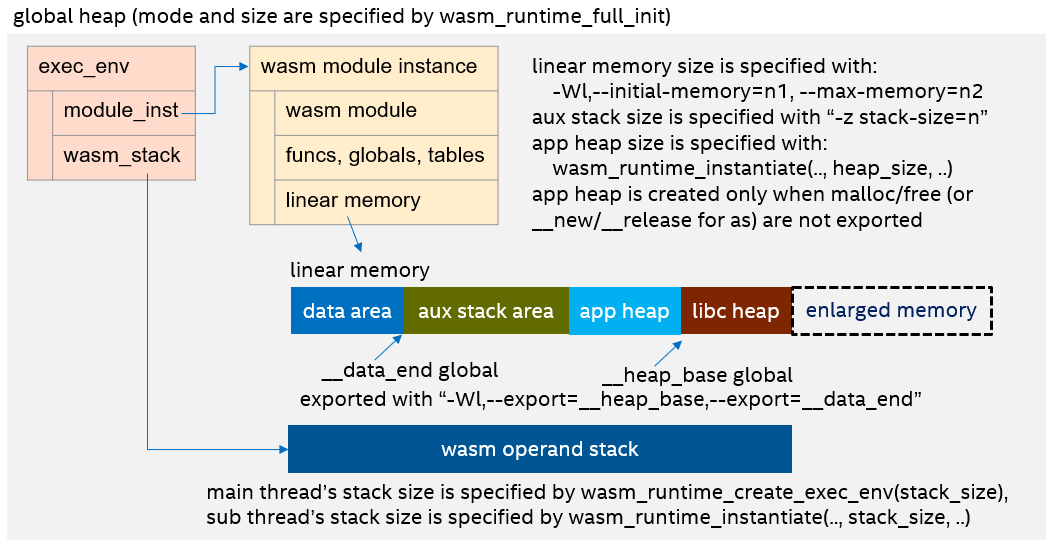
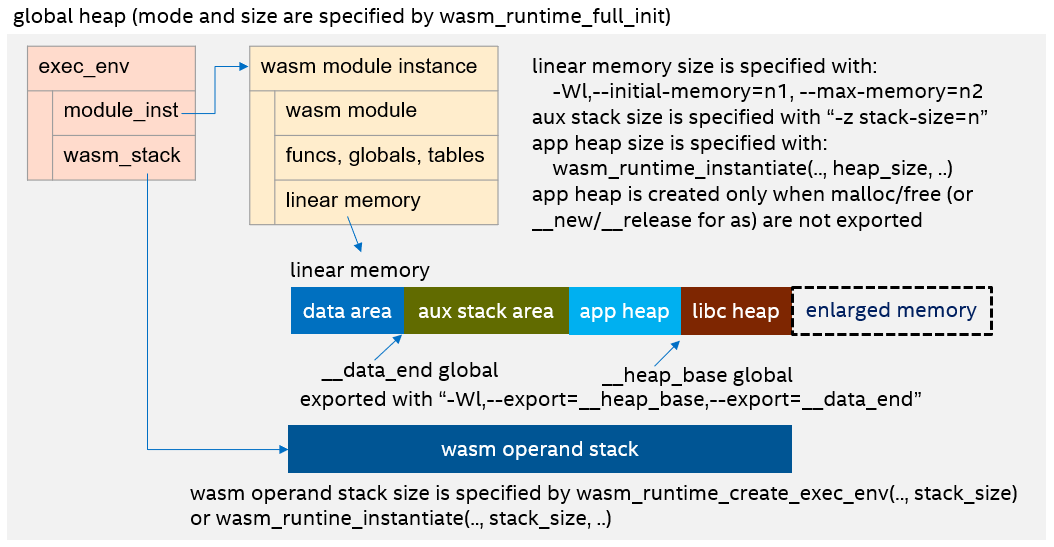
Update document and fix wasm_runtime_call_wasm_a issue (#1005)
Update document memory_tune.md: fix embed wamr link error,
fix description error of wasm operand stack size, update picture.

Fix wasm_runtime_call_wasm_a issue reported by #1003 and update
sample basic to call this API.

Changed region(s): [[0.1822, 0.8702, 0.9715, 0.9634]]

diff --git a/samples/basic/src/main.c b/samples/basic/src/main.c
@@ -123,28 +123,28 @@ main(int argc, char *argv_main[])
         goto fail;
     }
 
-    uint32 argv[4];
-    double arg_d = 0.000101;
-    argv[0] = 10;
-    // the second arg will occupy two array elements
-    memcpy(&argv[1], &arg_d, sizeof(arg_d));
-    *(float *)(argv + 3) = 300.002;
-
     if (!(func = wasm_runtime_lookup_function(module_inst, "generate_float",
                                               NULL))) {
         printf("The generate_float wasm function is not found.\n");
         goto fail;
     }
 
+    wasm_val_t results[1] = { { .kind = WASM_F32, .of.f32 = 0 } };
+    wasm_val_t arguments[3] = {
+        { .kind = WASM_I32, .of.i32 = 10 },
+        { .kind = WASM_F64, .of.f64 = 0.000101 },
+        { .kind = WASM_F32, .of.f32 = 300.002 },
+    };
+
     // pass 4 elements for function arguments
-    if (!wasm_runtime_call_wasm(exec_env, func, 4, argv)) {
+    if (!wasm_runtime_call_wasm_a(exec_env, func, 1, results, 3, arguments)) {
         printf("call wasm function generate_float failed. %s\n",
                wasm_runtime_get_exception(module_inst));
         goto fail;
     }
 
     float ret_val;
-    memcpy(&ret_val, argv, sizeof(float));
+    ret_val = results[0].of.f32;
     printf("Native finished calling wasm function generate_float(), returned a "
            "float value: %ff\n",
            ret_val);

diff --git a/core/iwasm/common/wasm_runtime_common.c b/core/iwasm/common/wasm_runtime_common.c
@@ -1629,7 +1629,7 @@ wasm_runtime_call_wasm_a(WASMExecEnv *exec_env,
     }
 
     parse_args_to_uint32_array(type, args, argv);
-    if (!(ret = wasm_runtime_call_wasm(exec_env, function, num_args, argv)))
+    if (!(ret = wasm_runtime_call_wasm(exec_env, function, argc, argv)))
         goto fail2;
 
     parse_uint32_array_to_results(type, argv, results);

diff --git a/doc/memory_tune.md b/doc/memory_tune.md
@@ -8,8 +8,8 @@ The memory model of WAMR can be basically described as below:
 <center><img src="./pics/wamr_memory_model.png" width="75%" height="75%"></img></center>
 
 Note:
-- **global heap**: the heap to allocate memory for runtime data structures, including wasm module, wasm module instance, exec env, wasm operand stack and so on. It is initialized by `wasm_runtime_init` or `wasm_runtime_full_init`. And for `wasm_runtime_full_init`, developer can specify the memory allocation mode with `RuntimeInitArgs *init_args`: allocate memory from a user defined byte buffer, from user defined allocation function, or from the platform's os_malloc function. Refer to [wasm_export.h](../core/iwasm/include/wasm_export.h#L98-L141) and [Embedding WAMR guideline](doc/embed_wamr.md#the-runtime-initialization) for more details. And developer can use `wasm_runtime_malloc/wasm_runtime_free` to allocate/free memory from/to the global heap.
-- **wasm operand stack**: the stack to store the operands required by wasm bytecodes as WebAssembly is based on a stack machine. If the exec_env is created by developer with `wasm_runtime_create_exec_env`, then its size is specified by `wasm_runtime_create_exec_env`, or if the exec_env is created by runtime, e.g. creating exec_env in a sub thread, the size is specified by `wasm_runtime_instantiate`.
+- **global heap**: the heap to allocate memory for runtime data structures, including wasm module, wasm module instance, exec env, wasm operand stack and so on. It is initialized by `wasm_runtime_init` or `wasm_runtime_full_init`. And for `wasm_runtime_full_init`, developer can specify the memory allocation mode with `RuntimeInitArgs *init_args`: allocate memory from a user defined byte buffer, from user defined allocation function, or from the platform's os_malloc function. Refer to [wasm_export.h](../core/iwasm/include/wasm_export.h#L98-L141) and [Embedding WAMR guideline](./embed_wamr.md#the-runtime-initialization) for more details. And developer can use `wasm_runtime_malloc/wasm_runtime_free` to allocate/free memory from/to the global heap.
+- **wasm operand stack**: the stack to store the operands required by wasm bytecodes as WebAssembly is based on a stack machine. If the exec_env is created by developer with `wasm_runtime_create_exec_env`, then its size is specified by `wasm_runtime_create_exec_env`, otherwise if the exec_env is created by runtime internally, e.g. by `wasm_application_execute_main` or `wasm_application_execute_func`, then the size is specified by `wasm_runtime_instantiate`.
 - **linear memory**: a contiguous, mutable array of raw bytes. It is created with an initial size but might be grown dynamically. For most compilers, e.g. wasi-sdk, emsdk, rustc or asc, normally it includes three parts, data area, auxiliary stack area and heap area. For wasi-sdk, the initial/max size can be specified with `-Wl,--initial-memory=n1,--max-memory=n2`, for emsdk, the initial/max size can be specified with `-s INITIAL_MEMORY=n1 -s MAXIMUM_MEMORY=n2 -s ALLOW_MEMORY_GROWTH=1` or `-s TOTAL_MEMORY=n`, and for asc, they can be specified with `--initialMemory` and `--maximumMemory` flags.
 - **aux stack**: the auxiliary stack resides in linear memory to store some temporary data when calling wasm functions, for example, calling a wasm function with complex struct arguments. For wasi-sdk, the size can be specified with `-z stack-size=n`, for emsdk, the size can be specified with `-s TOTAL_STACK=n`.
 - **app heap and libc heap**: the heap to allocate memory for wasm app, note that app heap is created only when the malloc/free functions (or __new/__release functions for AssemblyScript) are not exported and runtime can not detect the libc heap. To export the malloc/free functions, for wasi-sdk and emsdk, developer can use `-Wl,--export=malloc -Wl,--export=free` options, for asc, developer can use `--exportRuntime` option. For app heap, the size is specified by `wasm_runtime_instantiate`. It is recommended to export the malloc/free functions and disable app heap in single thread mode, and for multi-threading, as the libc heap isn't thread-safe, it is recommended to remove the dlmalloc.o from libc.a for wasi-sdk and use `-s MALLOC="none"` for emsdk, refer to [WAMR pthread library](./pthread_library.md) for more details. And developer can use `wasm_runtime_module_malloc/wasm_runtime_module_free` to allocate/free memory from/to app heap (or libc heap if malloc/free functions are exported).
